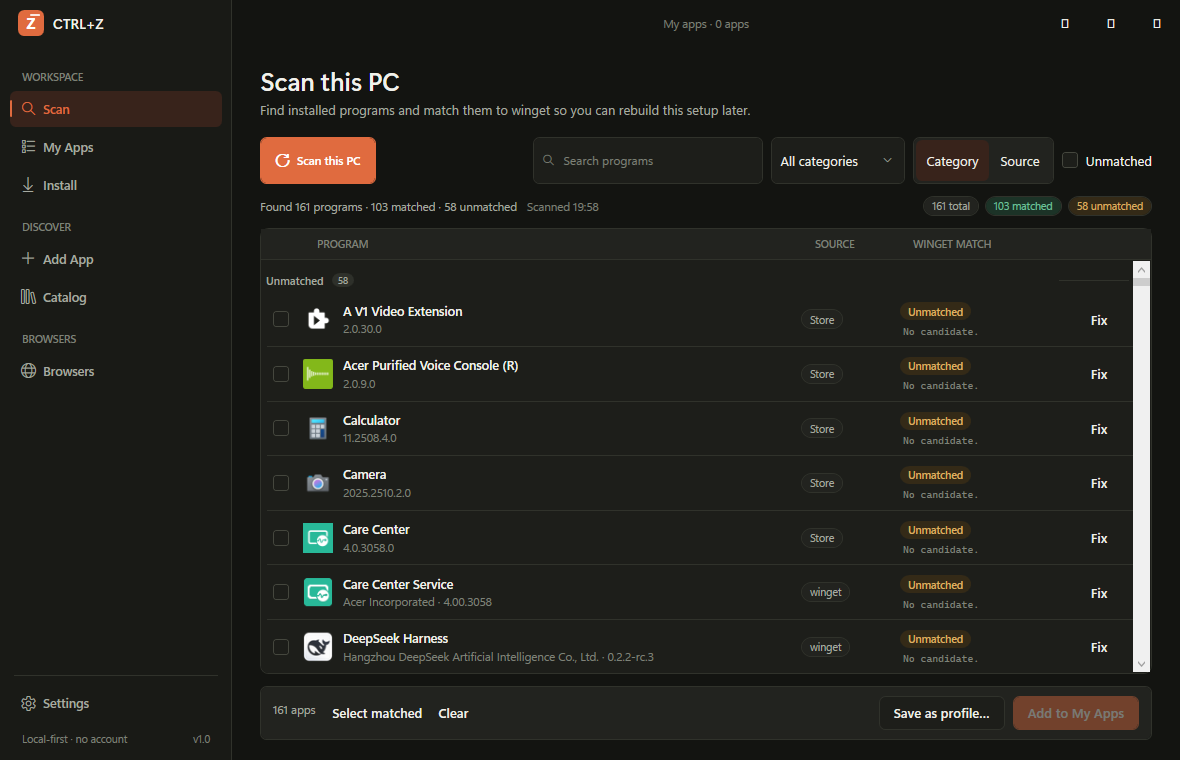
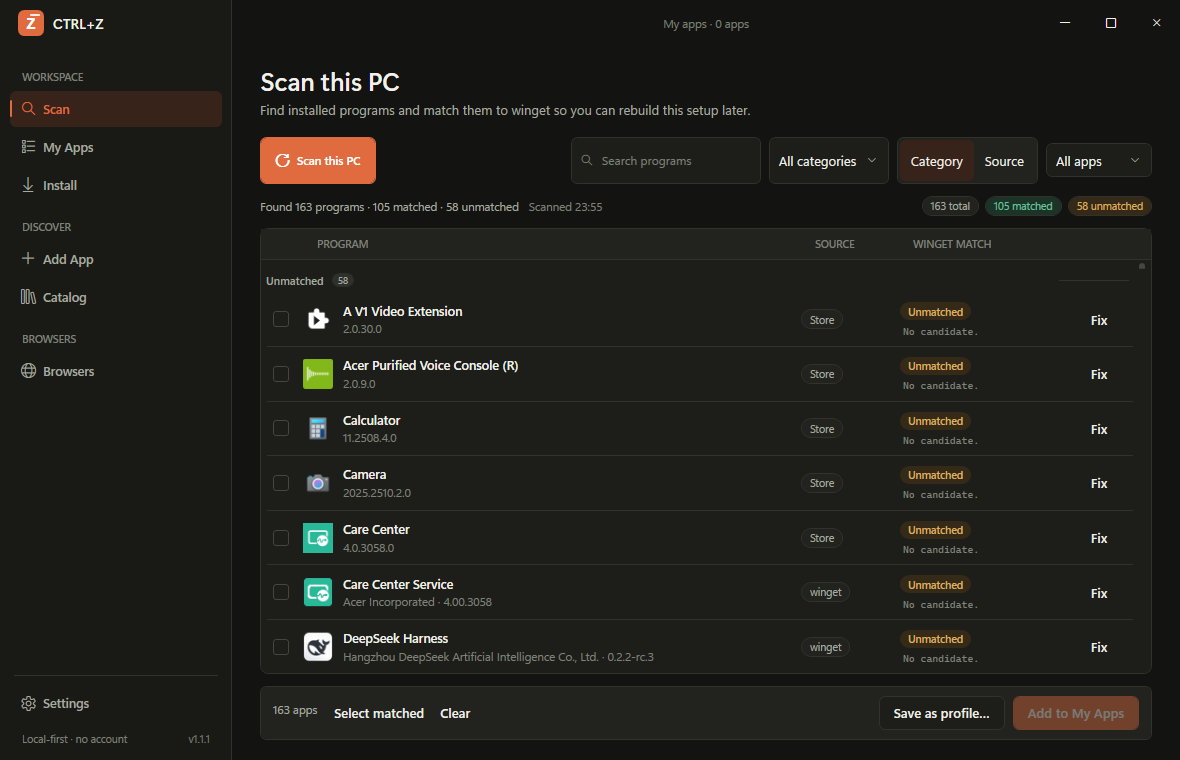
Add matched and unmatched scan filters

diff --git a/src/CtrlZ.App/Views/ScanView.xaml b/src/CtrlZ.App/Views/ScanView.xaml
@@ -141,7 +141,7 @@
                     Content="Cancel scan" Visibility="{Binding IsScanning, Converter={StaticResource BoolToVisibility}}" />
 
             <StackPanel Grid.Column="2" Orientation="Horizontal" VerticalAlignment="Center">
-                <Grid Width="230" Margin="0,0,8,0">
+                <Grid Width="190" Margin="0,0,8,0">
                     <TextBox x:Name="SearchBox" Text="{Binding SearchText, UpdateSourceTrigger=PropertyChanged}"
                              Padding="30,7,10,7" MinHeight="34" AutomationProperties.Name="Search programs" />
                     <TextBlock Text="{StaticResource Icon.Search}" FontFamily="{StaticResource Font.Icons}" FontSize="12"
@@ -163,7 +163,7 @@
                 </Grid>
 
                 <ComboBox ItemsSource="{Binding Categories}" SelectedItem="{Binding SelectedCategory}"
-                          Width="134" Margin="0,0,8,0" AutomationProperties.Name="Filter by category" />
+                          Width="120" Margin="0,0,8,0" AutomationProperties.Name="Filter by category" />
 
                 <Border Style="{StaticResource Border.Inset}" Padding="2" Margin="0,0,8,0">
                     <StackPanel Orientation="Horizontal">
@@ -176,7 +176,9 @@
                     </StackPanel>
                 </Border>
 
-                <CheckBox Content="Unmatched" IsChecked="{Binding ShowUnmatchedOnly}" VerticalAlignment="Center" />
+                <ComboBox ItemsSource="{Binding MatchFilters}" SelectedItem="{Binding SelectedMatchFilter}"
+                          Width="106" VerticalAlignment="Center" AutomationProperties.Name="Filter by match status"
+                          ToolTip="Show all apps, only matched apps, or only unmatched apps" />
             </StackPanel>
         </Grid>
 

diff --git a/src/CtrlZ.App/ViewModels/ScanViewModel.cs b/src/CtrlZ.App/ViewModels/ScanViewModel.cs
@@ -33,11 +33,14 @@ public sealed partial class ScanViewModel : PageViewModelBase
         ItemsView.SortDescriptions.Add(new SortDescription(nameof(ScanItemViewModel.Name), ListSortDirection.Ascending));
         Categories = new ObservableCollection<string>(["All categories"]);
         SelectedCategory = "All categories";
+        MatchFilters = new ObservableCollection<string>(["All apps", "Matched", "Unmatched"]);
+        SelectedMatchFilter = "All apps";
     }
 
     public ObservableCollection<ScanItemViewModel> Items { get; } = new();
     public ICollectionView ItemsView { get; }
     public ObservableCollection<string> Categories { get; }
+    public ObservableCollection<string> MatchFilters { get; }
 
     [ObservableProperty]
     private string _searchText = string.Empty;
@@ -49,7 +52,7 @@ public sealed partial class ScanViewModel : PageViewModelBase
     private bool _groupBySource;
 
     [ObservableProperty]
-    private bool _showUnmatchedOnly;
+    private string _selectedMatchFilter;
 
     [ObservableProperty]
     private bool _isScanning;
@@ -102,7 +105,7 @@ public sealed partial class ScanViewModel : PageViewModelBase
 
     partial void OnSelectedCategoryChanged(string value) => ItemsView.Refresh();
 
-    partial void OnShowUnmatchedOnlyChanged(bool value) => ItemsView.Refresh();
+    partial void OnSelectedMatchFilterChanged(string value) => ItemsView.Refresh();
 
     partial void OnWarningTextChanged(string? value) => OnPropertyChanged(nameof(HasWarning));
 
@@ -336,7 +339,12 @@ public sealed partial class ScanViewModel : PageViewModelBase
             return false;
         }
 
-        if (ShowUnmatchedOnly && app.IsMatched)
+        if (SelectedMatchFilter == "Matched" && !app.IsMatched)
+        {
+            return false;
+        }
+
+        if (SelectedMatchFilter == "Unmatched" && app.IsMatched)
         {
             return false;
         }

diff --git a/src/CtrlZ.App/ViewModels/MainViewModel.cs b/src/CtrlZ.App/ViewModels/MainViewModel.cs
@@ -51,7 +51,7 @@ public sealed partial class MainViewModel : ObservableObject, IDisposable
     public DialogService Dialogs { get; }
     public ThemeService Theme => _theme;
     public string AppVersion { get; } =
-        typeof(MainViewModel).Assembly.GetName().Version?.ToString(3) ?? "1.1.0";
+        typeof(MainViewModel).Assembly.GetName().Version?.ToString(3) ?? "1.1.1";
     public ScanViewModel Scan { get; }
     public MyAppsViewModel MyApps { get; }
     public AddAppViewModel AddApp { get; }

diff --git a/src/CtrlZ.App/ViewModels/SettingsViewModel.cs b/src/CtrlZ.App/ViewModels/SettingsViewModel.cs
@@ -22,7 +22,7 @@ public sealed partial class SettingsViewModel : PageViewModelBase
         _dialogs = dialogs;
         _main = main;
         _themeService = theme;
-        AppVersion = typeof(SettingsViewModel).Assembly.GetName().Version?.ToString(3) ?? "1.1.0";
+        AppVersion = typeof(SettingsViewModel).Assembly.GetName().Version?.ToString(3) ?? "1.1.1";
         DataFolder = services.Paths.Root;
         LogsFolder = services.Paths.Logs;
         ProfilesFolder = services.Paths.Profiles;

diff --git a/src/CtrlZ.Core/Models/BrowserArchiveModels.cs b/src/CtrlZ.Core/Models/BrowserArchiveModels.cs
@@ -6,7 +6,7 @@ public sealed class BrowserBackupManifest
 
     public int SchemaVersion { get; set; } = CurrentSchemaVersion;
     public string App { get; set; } = "CTRL+Z";
-    public string AppVersion { get; set; } = "1.1.0";
+    public string AppVersion { get; set; } = "1.1.1";
     public string Format { get; set; } = "browser-profile-backup";
     public BrowserFamily Family { get; set; } = BrowserFamily.Chromium;
     public string BrowserId { get; set; } = string.Empty;

diff --git a/src/CtrlZ.Core/Services/BrowserBackupService.cs b/src/CtrlZ.Core/Services/BrowserBackupService.cs
@@ -331,7 +331,7 @@ public sealed class BrowserBackupService
     {
         return new BrowserBackupManifest
         {
-            AppVersion = typeof(BrowserBackupService).Assembly.GetName().Version?.ToString(3) ?? "1.1.0",
+            AppVersion = typeof(BrowserBackupService).Assembly.GetName().Version?.ToString(3) ?? "1.1.1",
             Family = request.Browser.Family,
             BrowserId = request.Browser.Id,
             BrowserName = request.Browser.DisplayName,

diff --git a/README.md b/README.md
@@ -41,7 +41,8 @@ emoji icons.
   (Appx)** apps.
 - Match installed names to winget package ids with a conservative, tested matcher.
   Unmatched entries are grouped for manual fixing with a winget search dialog.
-- Searchable, filterable lists; group by category or source; multi-select.
+- Searchable, filterable lists; filter by **All apps / Matched / Unmatched**, filter by category,
+  group by category or source, and multi-select.
 - Save **multiple portable profiles** (`Work PC`, `Gaming PC`, …) as human-readable JSON;
   import/export them anywhere.
 - Add apps winget does not carry:
@@ -110,9 +111,9 @@ emoji icons.
 
 Download the latest build from [Releases](https://github.com/IAM-GROOT1/ctrlz/releases/latest). The release artifacts are (also copied to `dist/`):
 
-- `CTRL+Z-Portable-1.1.0.exe` — a single self-contained executable. Put it anywhere and
+- `CTRL+Z-Portable-1.1.1.exe` — a single self-contained executable. Put it anywhere and
   run it. No .NET install required.
-- `CTRL+Z-Setup-1.1.0.exe` — per-user Inno Setup installer (Start Menu shortcut, optional
+- `CTRL+Z-Setup-1.1.1.exe` — per-user Inno Setup installer (Start Menu shortcut, optional
   desktop shortcut, uninstaller). It does not require admin to install.
 
 The binaries are **not code-signed**, so SmartScreen may show an unknown-publisher prompt.
@@ -164,13 +165,13 @@ resume/retry, and file/portable installer execution.
 ### Build the portable single exe
 
 ```powershell
-.\build\publish.ps1 -Version 1.1.0
+.\build\publish.ps1 -Version 1.1.1
 ```
 
 Outputs:
 
 - `artifacts/publish/portable/CTRL+Z.exe`
-- `artifacts/CTRL+Z-Portable-1.1.0.exe`
+- `artifacts/CTRL+Z-Portable-1.1.1.exe`
 - README + LICENSE next to the portable build
 
 The script uses `dotnet` from `PATH`, or a local `.tools/dotnet/dotnet.exe` if present.
@@ -178,10 +179,10 @@ The script uses `dotnet` from `PATH`, or a local `.tools/dotnet/dotnet.exe` if p
 ### Build the installer
 
 ```powershell
-.\build\build-installer.ps1 -Version 1.1.0
+.\build\build-installer.ps1 -Version 1.1.1
 ```
 
-Output: `artifacts/installer/CTRL+Z-Setup-1.1.0.exe`.
+Output: `artifacts/installer/CTRL+Z-Setup-1.1.1.exe`.
 
 If you use Winget, verify that it installs Inno Setup 6.3+ (the 6.x line is free for commercial use). The vendor still publishes 6.7.4 alongside newer releases.
 
